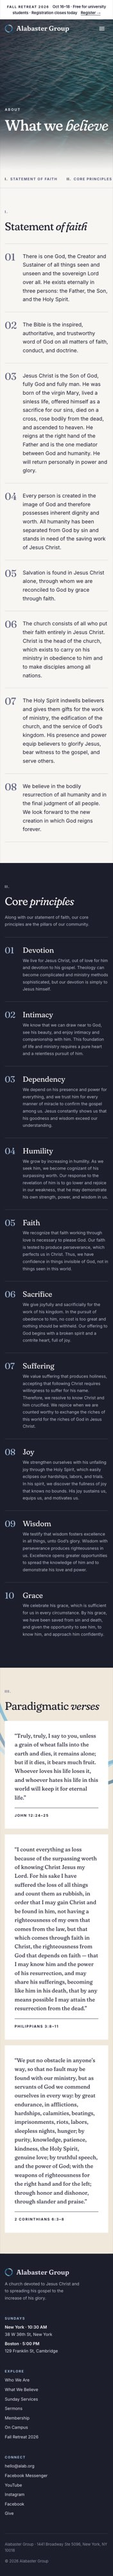
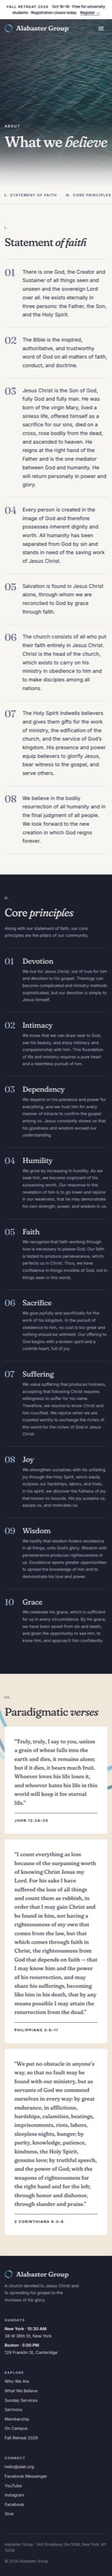
Use one 740px cover height for all subpages
Taller than the original 620px, shorter than the 860px tall variant.

diff --git a/public/css/site.css b/public/css/site.css
@@ -522,3 +522,6 @@ body, .prose { font-size: var(--fs-body); }
 .time-num { font-family: var(--serif); font-variation-settings: "SOFT" 100; font-size: 34px; line-height: 1; min-width: 120px; }
 .chapter-block { border-top: 0; position: relative; }
 .chapter-block::before { content: ''; position: absolute; top: 0; left: var(--gutter); right: var(--gutter); border-top: 1px solid var(--line); }
+/* Subpage covers: one height for every page (taller than before, not full-screen). */
+.hero--page, .hero--tall { min-height: 740px; }
+@media (max-width: 900px) { .hero--page, .hero--tall { min-height: 580px; } }

diff --git a/docs/test-plan/README.md b/docs/test-plan/README.md
@@ -1,6 +1,6 @@
 # Test plan
 
-Generated 2026-10-01 00:15 by `scripts/test_plan.py` from a fresh build.
+Generated 2026-10-01 00:25 by `scripts/test_plan.py` from a fresh build.
 
 ## Automated checks
 
